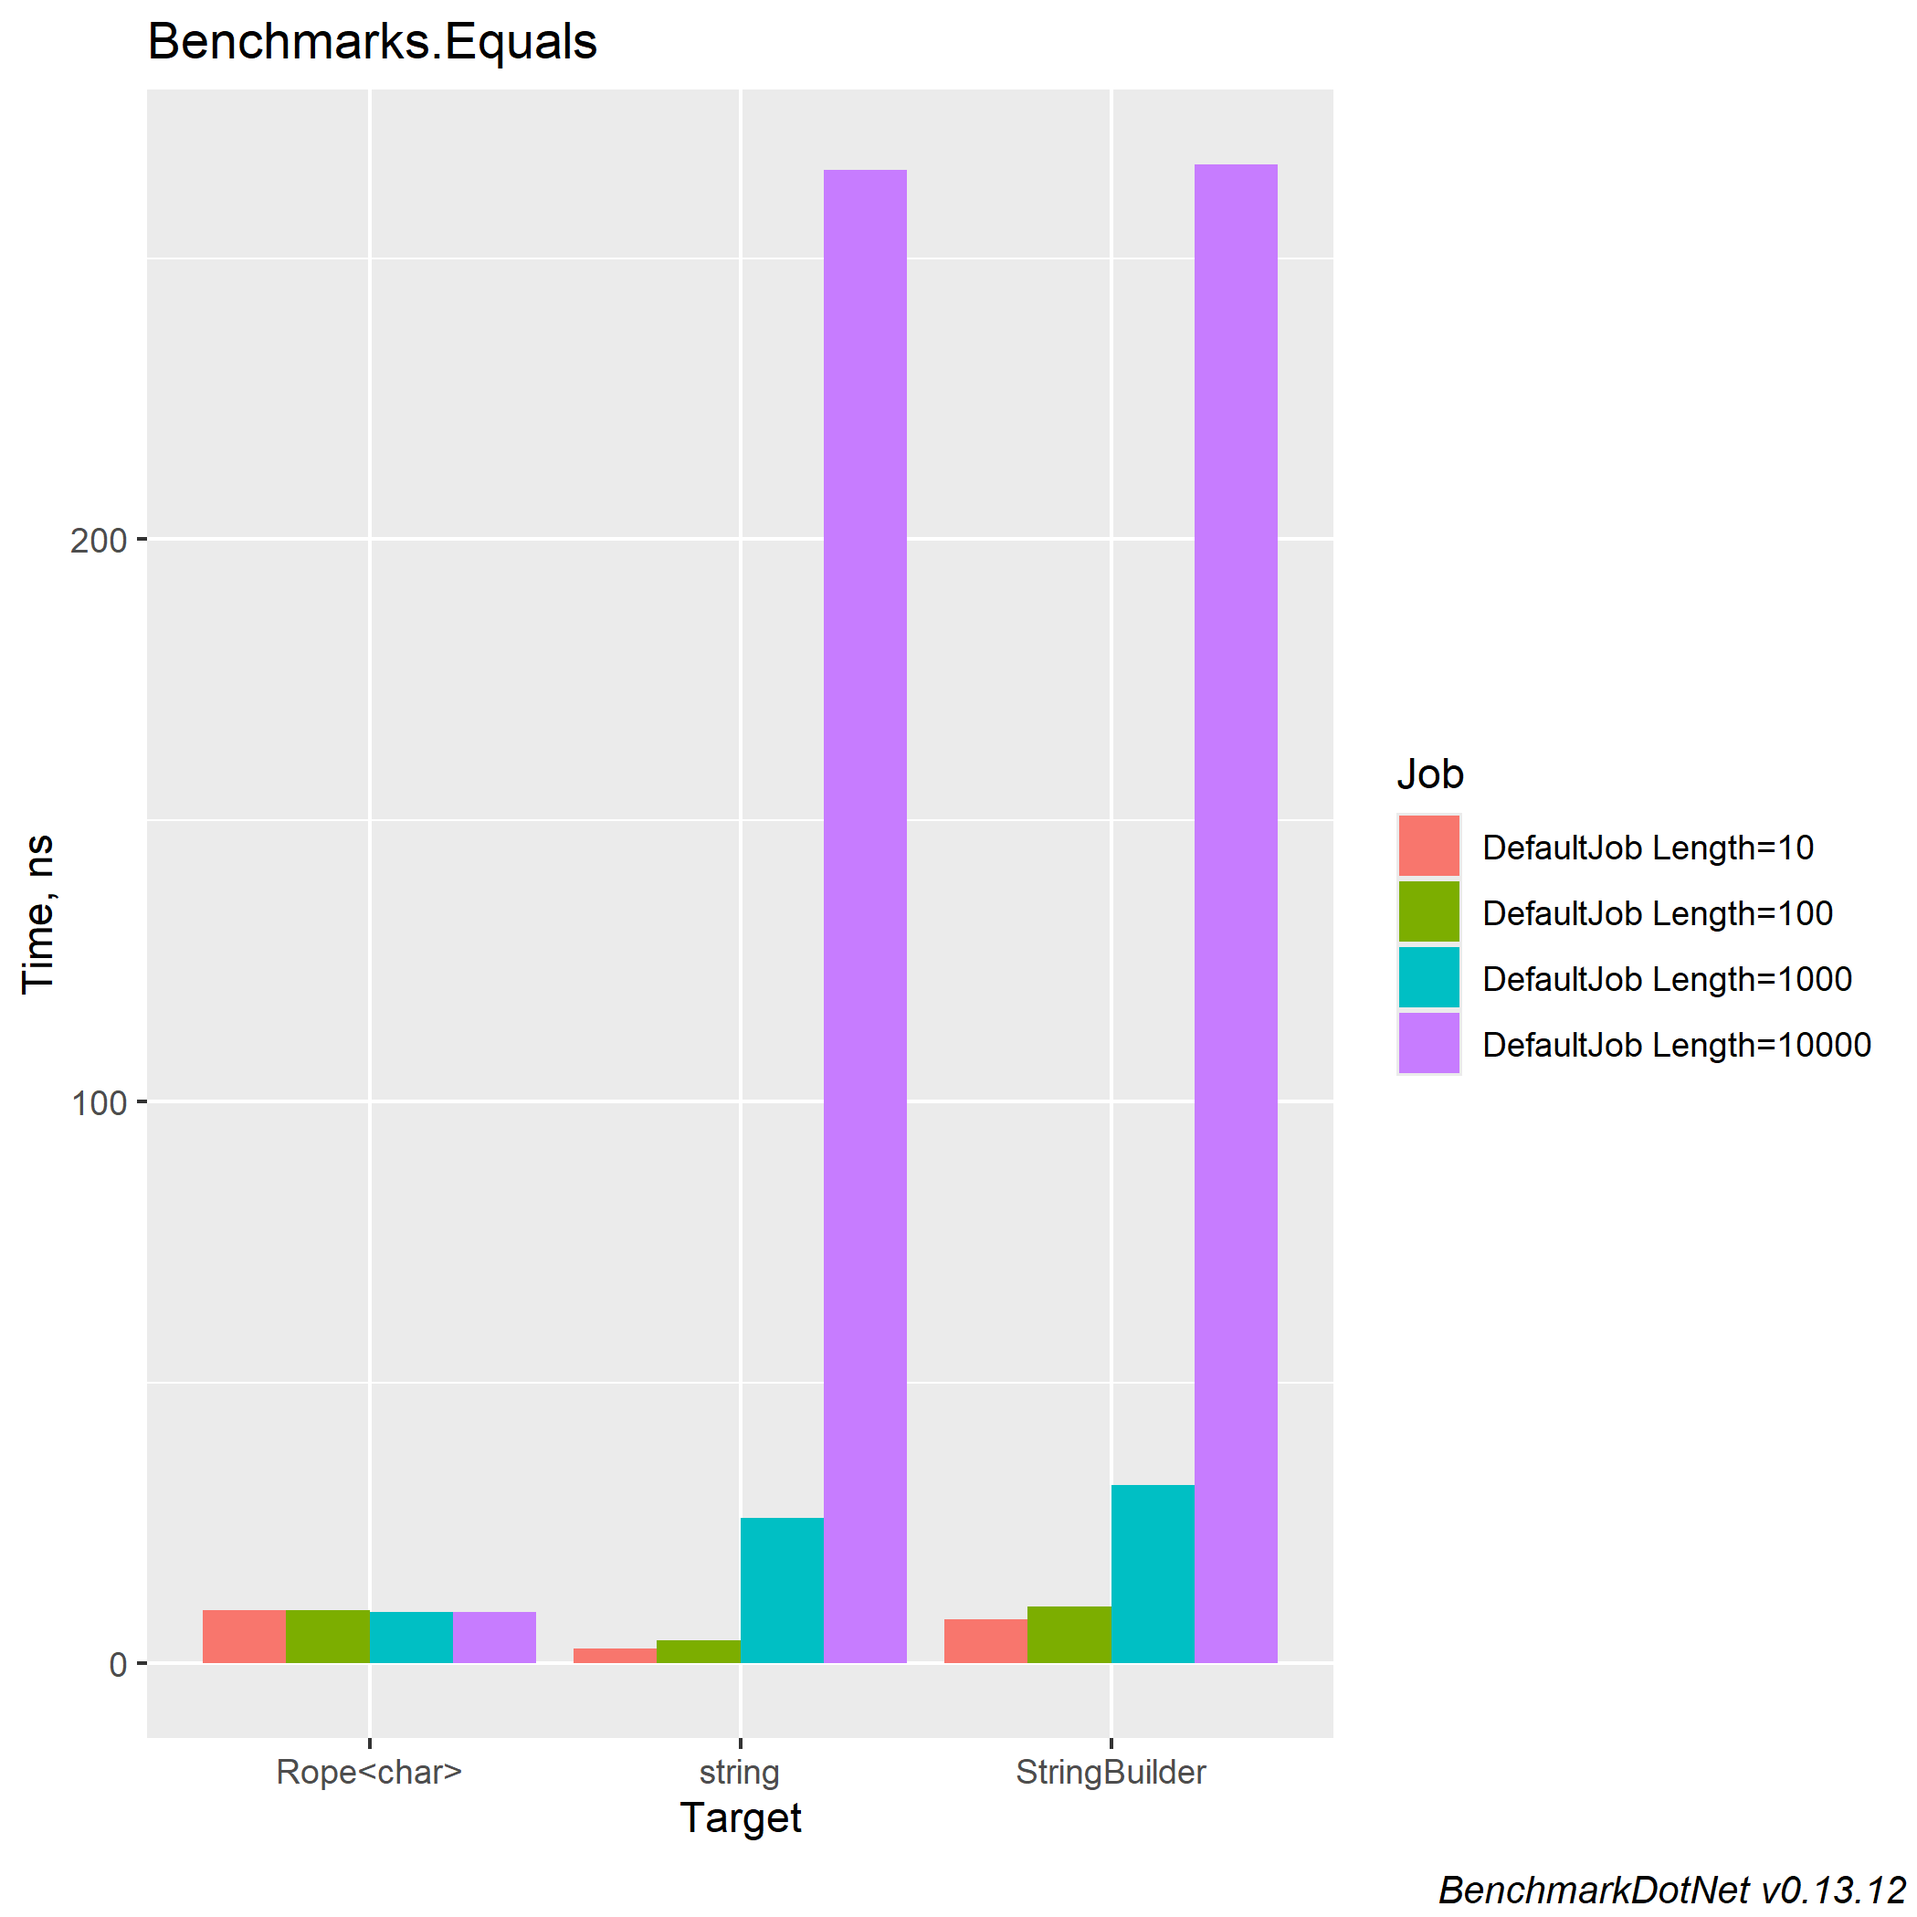
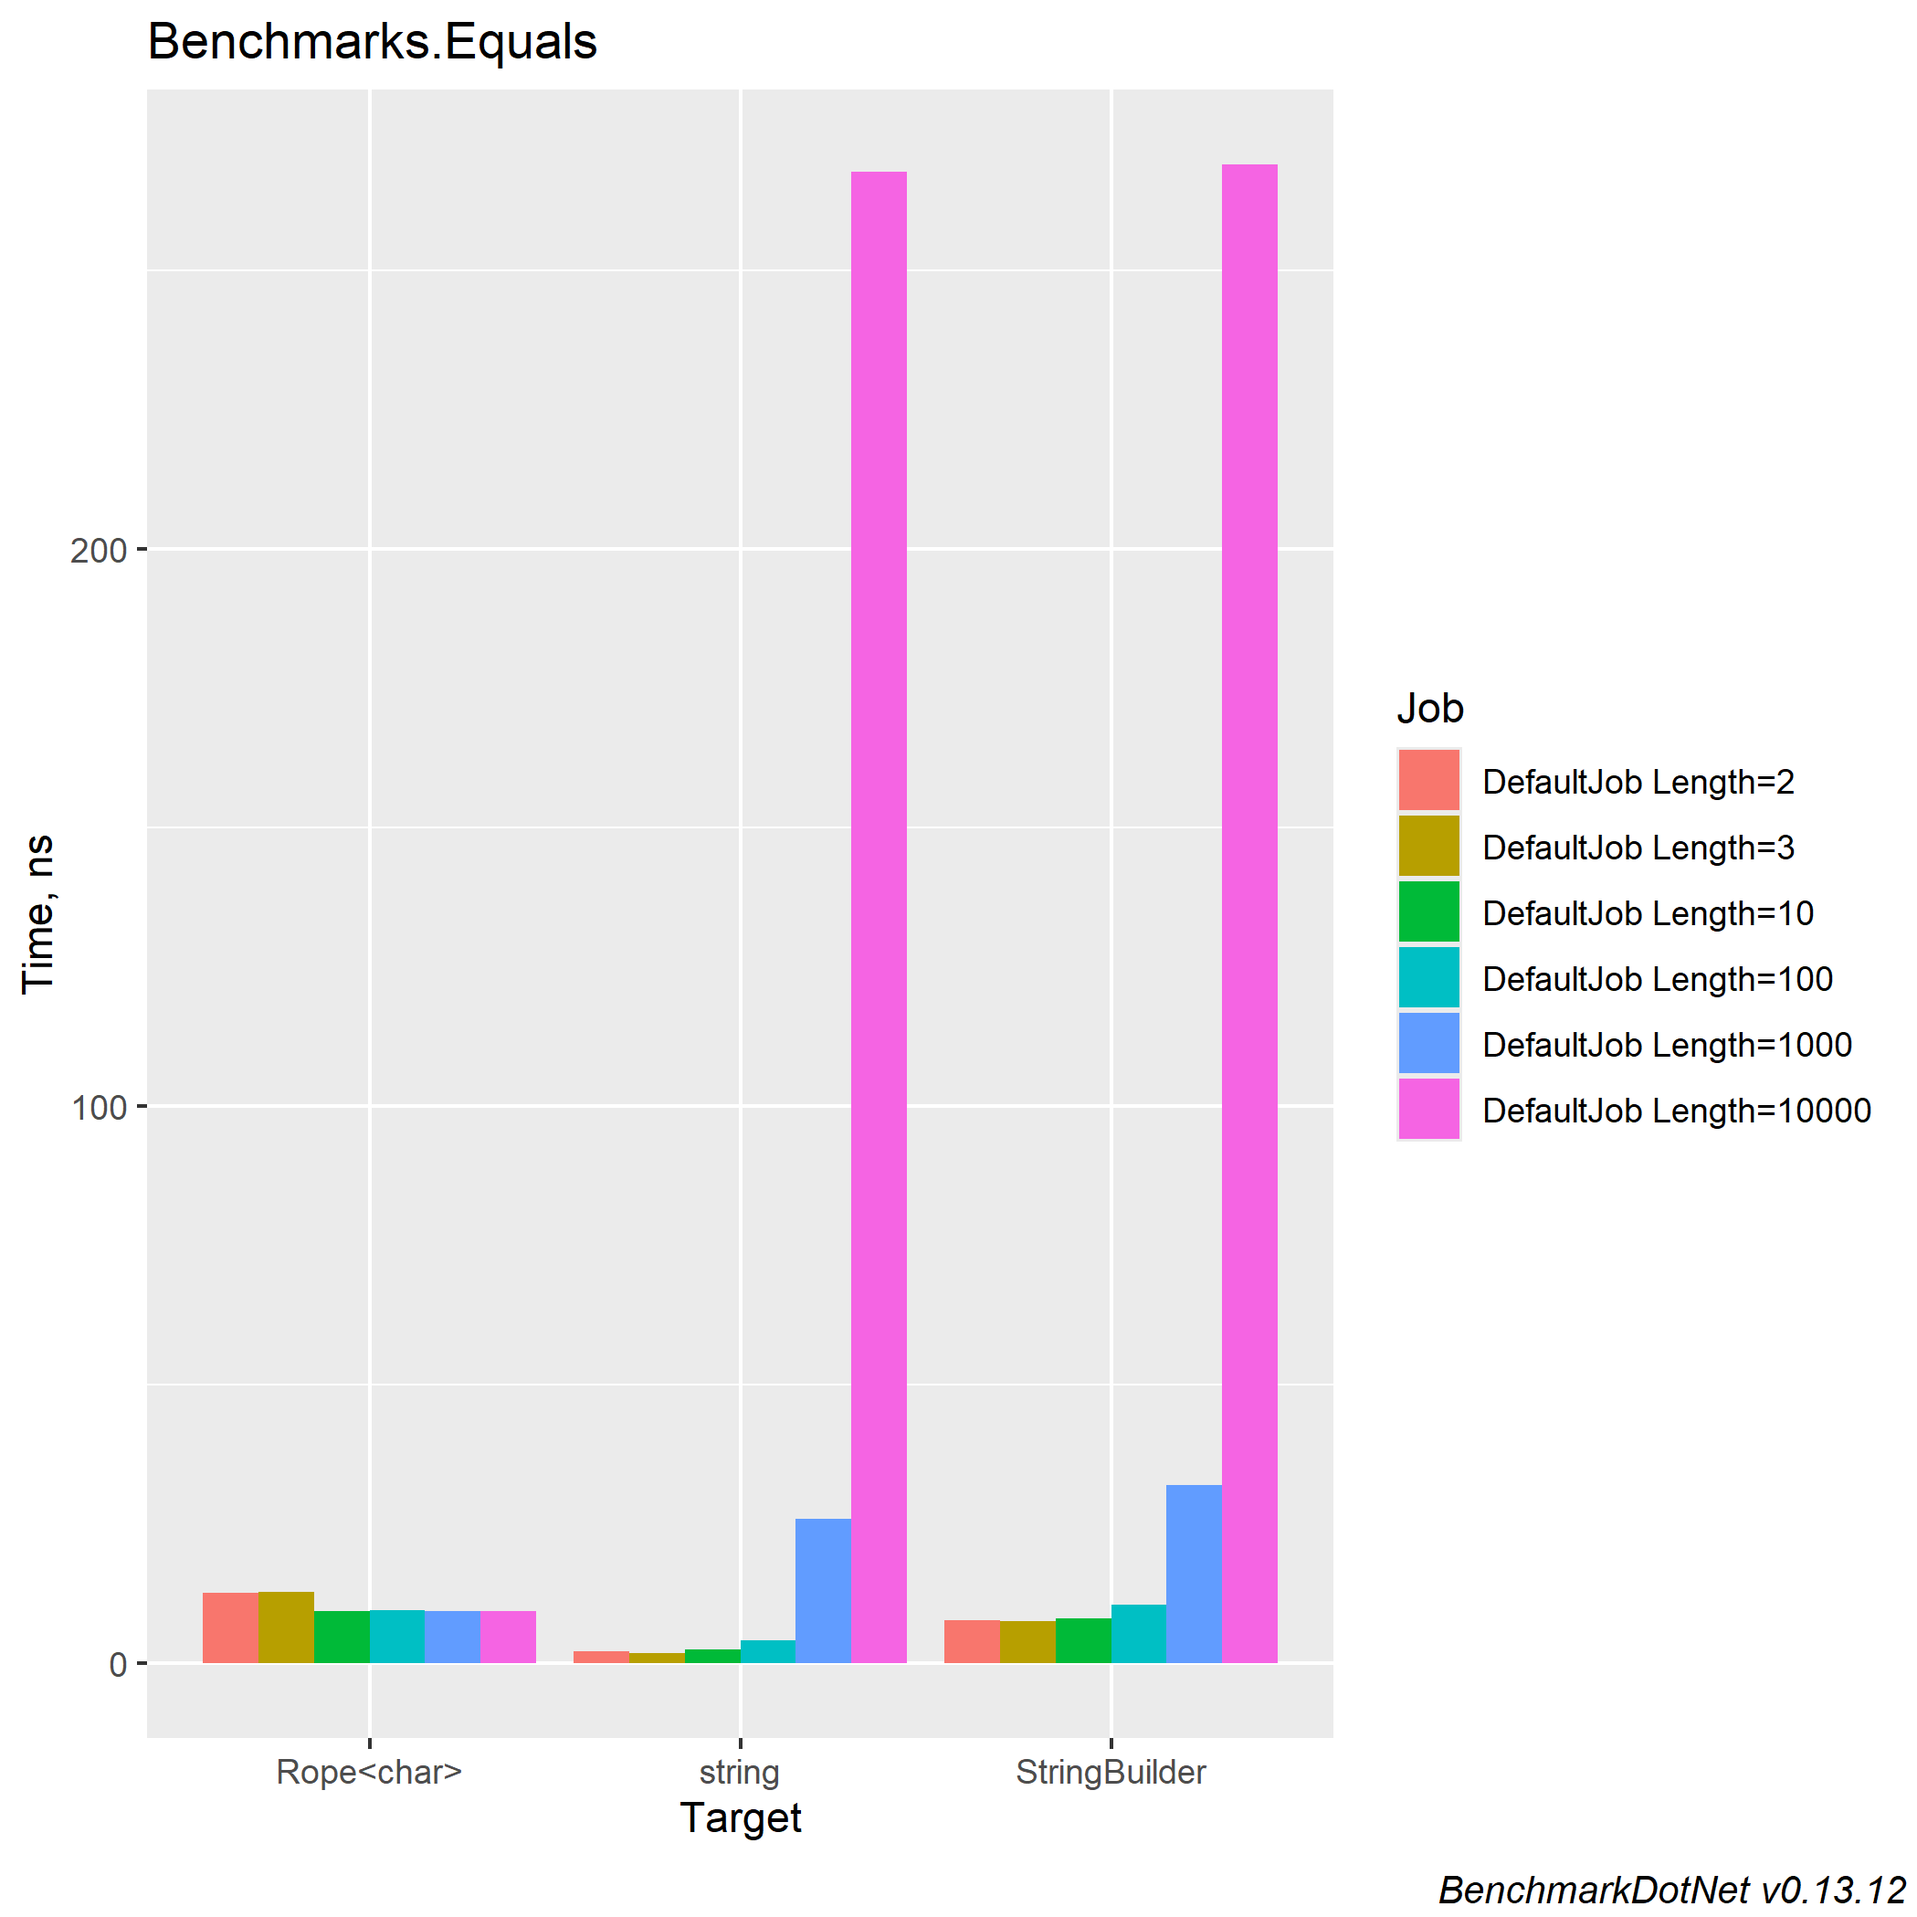
More Equals lengths

diff --git a/src/Rope.cs b/src/Rope.cs
@@ -387,6 +387,7 @@ public readonly record struct Rope<T> : IEnumerable<T>, IReadOnlyList<T>, IImmut
 #if NET8_0_OR_GREATER
     [MemberNotNullWhen(true, nameof(this.Left))]
     [MemberNotNullWhen(true, nameof(this.Right))]
+#endif
     public bool IsNode => this.data is RopeNode;
 
     /// <summary>
@@ -2343,14 +2344,14 @@ public readonly record struct Rope<T> : IEnumerable<T>, IReadOnlyList<T>, IImmut
         return this.data switch
         {
             EmptyValue or null => other.Length == 0,
+            OneValue value => other.data is OneValue otherValue && value.Item1.Equals(otherValue.Item1),
+            TwoValue values => other.data is TwoValue otherValues && values.Item1.Equals(otherValues.Item1) && values.Item2.Equals(otherValues.Item2),
             ReadOnlyMemory<T> mem =>
                 other.data switch
                 {
                     ReadOnlyMemory<T> otherMem => mem.Span.SequenceEqual(otherMem.Span),
                     _ => AlignedEquals(other)
                 },
-            OneValue value => other.data is OneValue otherValue && value.Equals(otherValue),
-            TwoValue values => other.data is TwoValue otherValues && values.Equals(otherValues),
             _ => AlignedEquals(other)
         };
     }

diff --git a/benchmarks/Equals.cs b/benchmarks/Equals.cs
@@ -14,7 +14,7 @@ namespace Benchmarks;
 [MemoryDiagnoser]
 public class Equals
 {
-    [Params(1, 2, 3, 10, 100, 1000, 10000)]
+    [Params(2, 3, 10, 100, 1000, 10000)]
     public int Length;
 
     private Rope<char> ropeX;

diff --git a/benchmarks/results/Benchmarks.Equals-report-github.md b/benchmarks/results/Benchmarks.Equals-report-github.md
@@ -8,17 +8,28 @@ AMD Ryzen 9 5950X, 1 CPU, 32 logical and 16 physical cores
 
 
 ```
-| Method        | Length | Mean       | Error     | StdDev    | Allocated |
-|-------------- |------- |-----------:|----------:|----------:|----------:|
-| **Rope&lt;char&gt;**    | **10**     |   **9.539 ns** | **0.2055 ns** | **0.2673 ns** |         **-** |
-| StringBuilder | 10     |   7.912 ns | 0.0335 ns | 0.0314 ns |         - |
-| string        | 10     |   2.587 ns | 0.0246 ns | 0.0230 ns |         - |
-| **Rope&lt;char&gt;**    | **100**    |   **9.413 ns** | **0.1150 ns** | **0.1020 ns** |         **-** |
-| StringBuilder | 100    |  10.198 ns | 0.0143 ns | 0.0120 ns |         - |
-| string        | 100    |   4.099 ns | 0.0342 ns | 0.0320 ns |         - |
-| **Rope&lt;char&gt;**    | **1000**   |   **9.212 ns** | **0.0903 ns** | **0.0800 ns** |         **-** |
-| StringBuilder | 1000   |  31.699 ns | 0.1249 ns | 0.1107 ns |         - |
-| string        | 1000   |  25.962 ns | 0.0646 ns | 0.0605 ns |         - |
-| **Rope&lt;char&gt;**    | **10000**  |   **9.225 ns** | **0.2058 ns** | **0.3712 ns** |         **-** |
-| StringBuilder | 10000  | 266.645 ns | 1.0231 ns | 0.9570 ns |         - |
-| string        | 10000  | 265.631 ns | 1.0321 ns | 0.9654 ns |         - |
+| Method        | Length | Mean       | Error     | StdDev    | Ratio | RatioSD | Allocated | Alloc Ratio |
+|-------------- |------- |-----------:|----------:|----------:|------:|--------:|----------:|------------:|
+| **Rope&lt;char&gt;**    | **2**      |  **12.656 ns** | **0.0552 ns** | **0.0516 ns** |  **1.00** |    **0.00** |         **-** |          **NA** |
+| StringBuilder | 2      |   7.794 ns | 0.0927 ns | 0.0821 ns |  0.62 |    0.01 |         - |          NA |
+| string        | 2      |   2.154 ns | 0.0069 ns | 0.0057 ns |  0.17 |    0.00 |         - |          NA |
+|               |        |            |           |           |       |         |           |             |
+| **Rope&lt;char&gt;**    | **3**      |  **12.847 ns** | **0.0338 ns** | **0.0300 ns** |  **1.00** |    **0.00** |         **-** |          **NA** |
+| StringBuilder | 3      |   7.663 ns | 0.1166 ns | 0.1090 ns |  0.60 |    0.01 |         - |          NA |
+| string        | 3      |   1.943 ns | 0.0064 ns | 0.0057 ns |  0.15 |    0.00 |         - |          NA |
+|               |        |            |           |           |       |         |           |             |
+| **Rope&lt;char&gt;**    | **10**     |   **9.375 ns** | **0.0268 ns** | **0.0238 ns** |  **1.00** |    **0.00** |         **-** |          **NA** |
+| StringBuilder | 10     |   8.052 ns | 0.1045 ns | 0.0978 ns |  0.86 |    0.01 |         - |          NA |
+| string        | 10     |   2.591 ns | 0.0104 ns | 0.0092 ns |  0.28 |    0.00 |         - |          NA |
+|               |        |            |           |           |       |         |           |             |
+| **Rope&lt;char&gt;**    | **100**    |   **9.506 ns** | **0.0752 ns** | **0.0703 ns** |  **1.00** |    **0.00** |         **-** |          **NA** |
+| StringBuilder | 100    |  10.592 ns | 0.0302 ns | 0.0283 ns |  1.11 |    0.01 |         - |          NA |
+| string        | 100    |   4.136 ns | 0.0479 ns | 0.0448 ns |  0.44 |    0.01 |         - |          NA |
+|               |        |            |           |           |       |         |           |             |
+| **Rope&lt;char&gt;**    | **1000**   |   **9.461 ns** | **0.1037 ns** | **0.0970 ns** |  **1.00** |    **0.00** |         **-** |          **NA** |
+| StringBuilder | 1000   |  32.100 ns | 0.1897 ns | 0.1775 ns |  3.39 |    0.05 |         - |          NA |
+| string        | 1000   |  25.984 ns | 0.1999 ns | 0.1870 ns |  2.75 |    0.04 |         - |          NA |
+|               |        |            |           |           |       |         |           |             |
+| **Rope&lt;char&gt;**    | **10000**  |   **9.333 ns** | **0.0975 ns** | **0.0912 ns** |  **1.00** |    **0.00** |         **-** |          **NA** |
+| StringBuilder | 10000  | 268.970 ns | 0.9905 ns | 0.8780 ns | 28.81 |    0.31 |         - |          NA |
+| string        | 10000  | 267.697 ns | 1.3632 ns | 1.2751 ns | 28.69 |    0.27 |         - |          NA |
